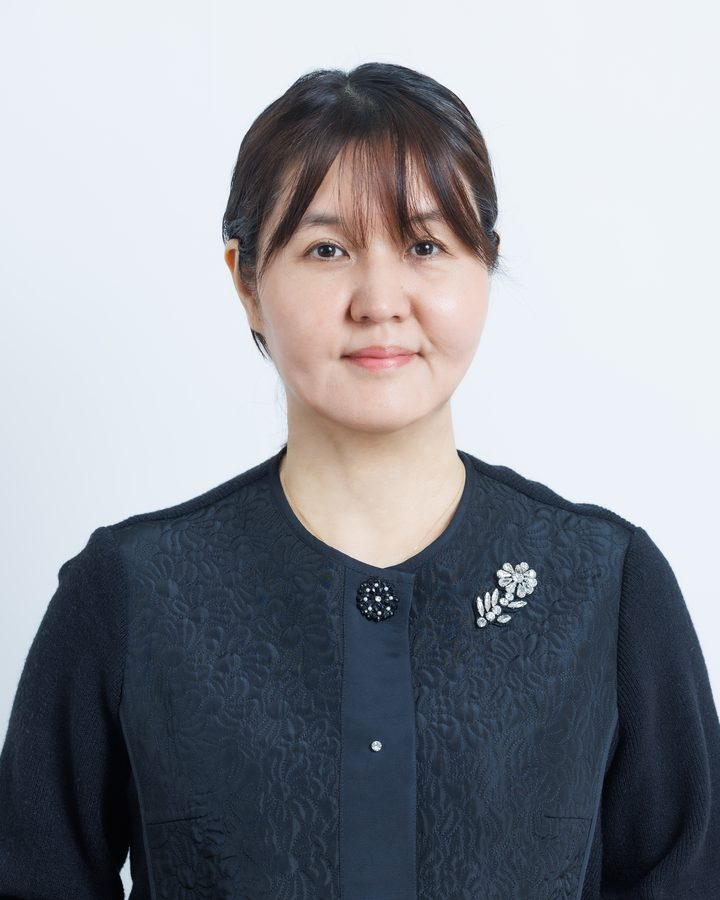
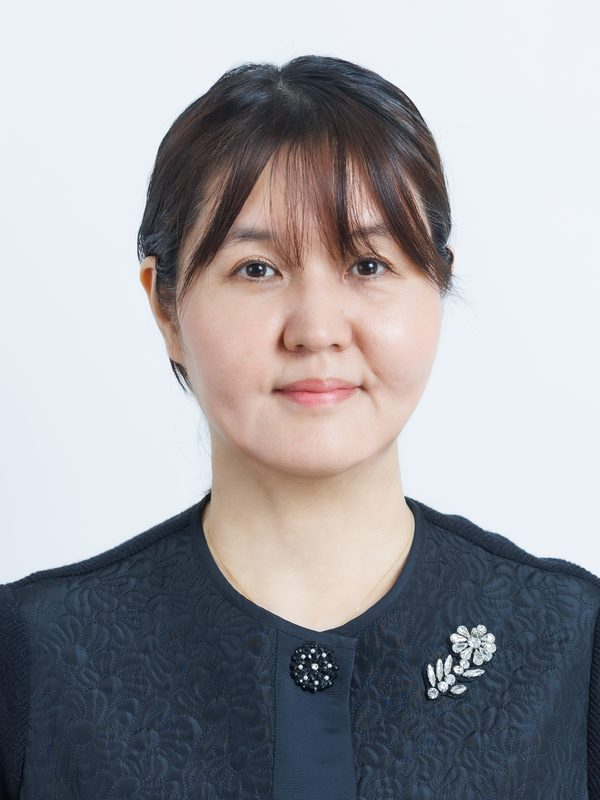
style: 代表プロフィール写真を胸下までの縦長(3:4)にトリミングし直し、表示を170pxに縮小

diff --git a/index.html b/index.html
@@ -146,7 +146,7 @@
     <div class="wrap">
       <h2><span class="section-icon" aria-hidden="true"></span>代表プロフィール</h2>
       <div class="profile-row">
-        <img src="/profile-photo-portrait.jpg" alt="代表理事 土光律子(竹田律子)の写真" class="profile-photo" width="720" height="900">
+        <img src="/profile-photo-portrait.jpg" alt="代表理事 土光律子(竹田律子)の写真" class="profile-photo" width="600" height="800">
         <div class="profile-text">
           <p class="profile-name">土光 律子(竹田 律子)</p>
           <p class="profile-body">国家公務員として、文部科学省をはじめとする中央省庁・独立行政法人・国立大学等の教育行政に携わりました。現在は法政大学大学院イノベーション・マネジメント研究科(MBA)に在籍し、マイクロクレデンシャルの大学導入支援モデルについて研究。行政・大学実務の現場感覚と、学術的な裏付けの両方から、マイクロクレデンシャル導入を支援しています。</p>

diff --git a/style.css b/style.css
@@ -474,10 +474,10 @@ table.price td.amount { font-variant-numeric: tabular-nums; white-space: nowrap;
 .profile-name { font-size: 18.5px; font-weight: 800; margin: 0 0 16px; color: var(--navy); }
 .profile-row { display: flex; gap: 28px; flex-wrap: wrap; align-items: flex-start; }
 .profile-photo {
-  width: 200px; max-width: 100%; height: auto; aspect-ratio: 4 / 5; border-radius: 10px; object-fit: cover; flex-shrink: 0;
+  width: 170px; max-width: 100%; height: auto; aspect-ratio: 3 / 4; border-radius: 10px; object-fit: cover; flex-shrink: 0;
   box-shadow: 0 6px 20px rgba(20,39,63,0.14);
 }
-@media (max-width: 600px) { .profile-photo { width: 60%; max-width: 240px; } }
+@media (max-width: 600px) { .profile-photo { width: 50%; max-width: 200px; } }
 .profile-text { flex: 1; min-width: 240px; }
 
 /* section heading icon (diamond motif, echoes the logo mark) */
